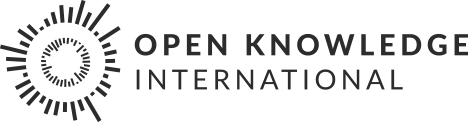
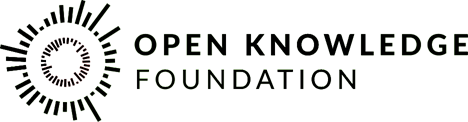
Update images ahead of the OKI -> OKF change (#29)
* Update images ahead of the OKI -> OKF change

* Change OKI to Open Knowledge Foundation (#31)

* Change Open Knowledge International to Open Knowledge Foundation (#30)

Changed region(s): [[0.0, 0.0, 1.0, 1.0], [0.0, 0.4672, 0.0598, 0.6393]]

diff --git a/a/html/oki/consent/index.html b/a/html/oki/consent/index.html
@@ -3,10 +3,10 @@
 
 <head>
   <meta charset="UTF-8">
-  <title>Cookie Consent at Open Knowledge International</title>
+  <title>Cookie Consent at Open Knowledge Foundation</title>
   <meta http-equiv="X-UA-Compatible" content="IE=edge">
   <meta name="viewport" content="width=device-width, initial-scale=1">
-  <meta name="description" content="Cookie Consent implementation for Open Knowledge International websites">
+  <meta name="description" content="Cookie Consent implementation for Open Knowledge Foundation websites">
   <script>
     var okiConsent = {
       analyticsTrackingID: 'UA-XXXXXX-XX'

diff --git a/a/html/oki/panel/panel.html b/a/html/oki/panel/panel.html
@@ -2,7 +2,7 @@
 <html lang="en">
   <head>
     <meta charset="utf-8">
-    <title>OKI Panel</title>
+    <title>OKF Panel</title>
     <meta name="viewport" content="width=device-width, initial-scale=1.0">
     <meta name="description" content="">
 
